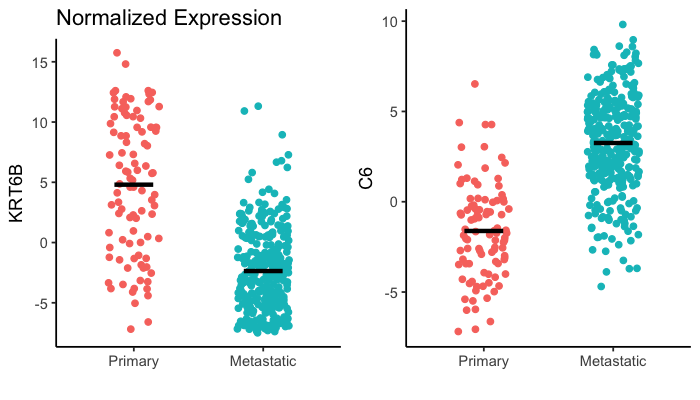
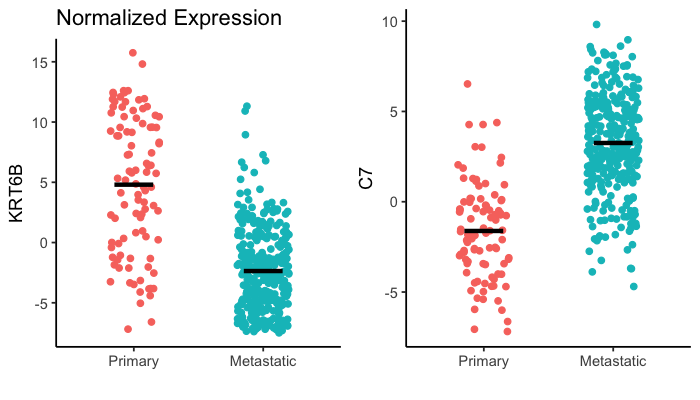
fixed labeling error

diff --git a/README.md b/README.md
@@ -108,12 +108,15 @@ ___
 ![alt_text](https://github.com/SciOmics/TCGA_Melanoma_RNASeq/blob/main/outputs/plots/volcano_plot.png?raw=true)  
 
 **Figure 7. Volcano plot: primary vs. metastatic samples.**
+Genes to the left side of the plot are increased in expression in primary samples, while those on the left are increased in metastatic samples.
 
 ___
 
 ![alt_text](https://github.com/SciOmics/TCGA_Melanoma_RNASeq/blob/main/outputs/plots/gene_expression_plots.png?raw=true)  
 
 **Figure 8. Gene expression: primary vs. metastatic samples.**
+KRT6B = Keratin 6B
+C7: Complement component 7 
 
 ___
 
